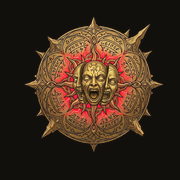
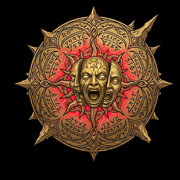
Bug fixes and mobile UI adjustments

diff --git a/src/components/layout/shell-chrome.tsx b/src/components/layout/shell-chrome.tsx
@@ -31,7 +31,7 @@ function Brand({ size = 'sm', href }: { size?: 'sm' | 'md'; href: string }) {
       <img
         src="/brand/vaal-emblem.png"
         alt=""
-        className={size === 'md' ? 'size-10' : 'size-9'}
+        className={size === 'md' ? 'size-12' : 'size-16'}
       />
       <span
         className={cn(
@@ -129,7 +129,7 @@ export function ShellChrome({
       {/* Main column */}
       <div className="flex min-h-[100dvh] flex-1 flex-col">
         {/* Mobile top bar */}
-        <header className="sticky top-0 z-20 flex h-14 items-center justify-between border-b border-border bg-background/80 px-4 backdrop-blur md:hidden">
+        <header className="sticky top-0 z-20 flex h-20 items-center justify-between border-b border-border bg-background/80 px-4 backdrop-blur md:hidden">
           <Brand href={homeHref} />
           {AccountControl}
         </header>

diff --git a/src/app/page.tsx b/src/app/page.tsx
@@ -10,7 +10,7 @@ export default function Home() {
       <img
         src="/brand/vaal-emblem.png"
         alt=""
-        className="mb-6 h-auto w-56 max-w-[70vw] opacity-95 sm:w-72"
+        className="mb-6 h-auto w-84 max-w-[88vw] opacity-95 sm:w-96"
       />
 
       <h1 className="font-heading text-4xl font-semibold tracking-tight sm:text-5xl">